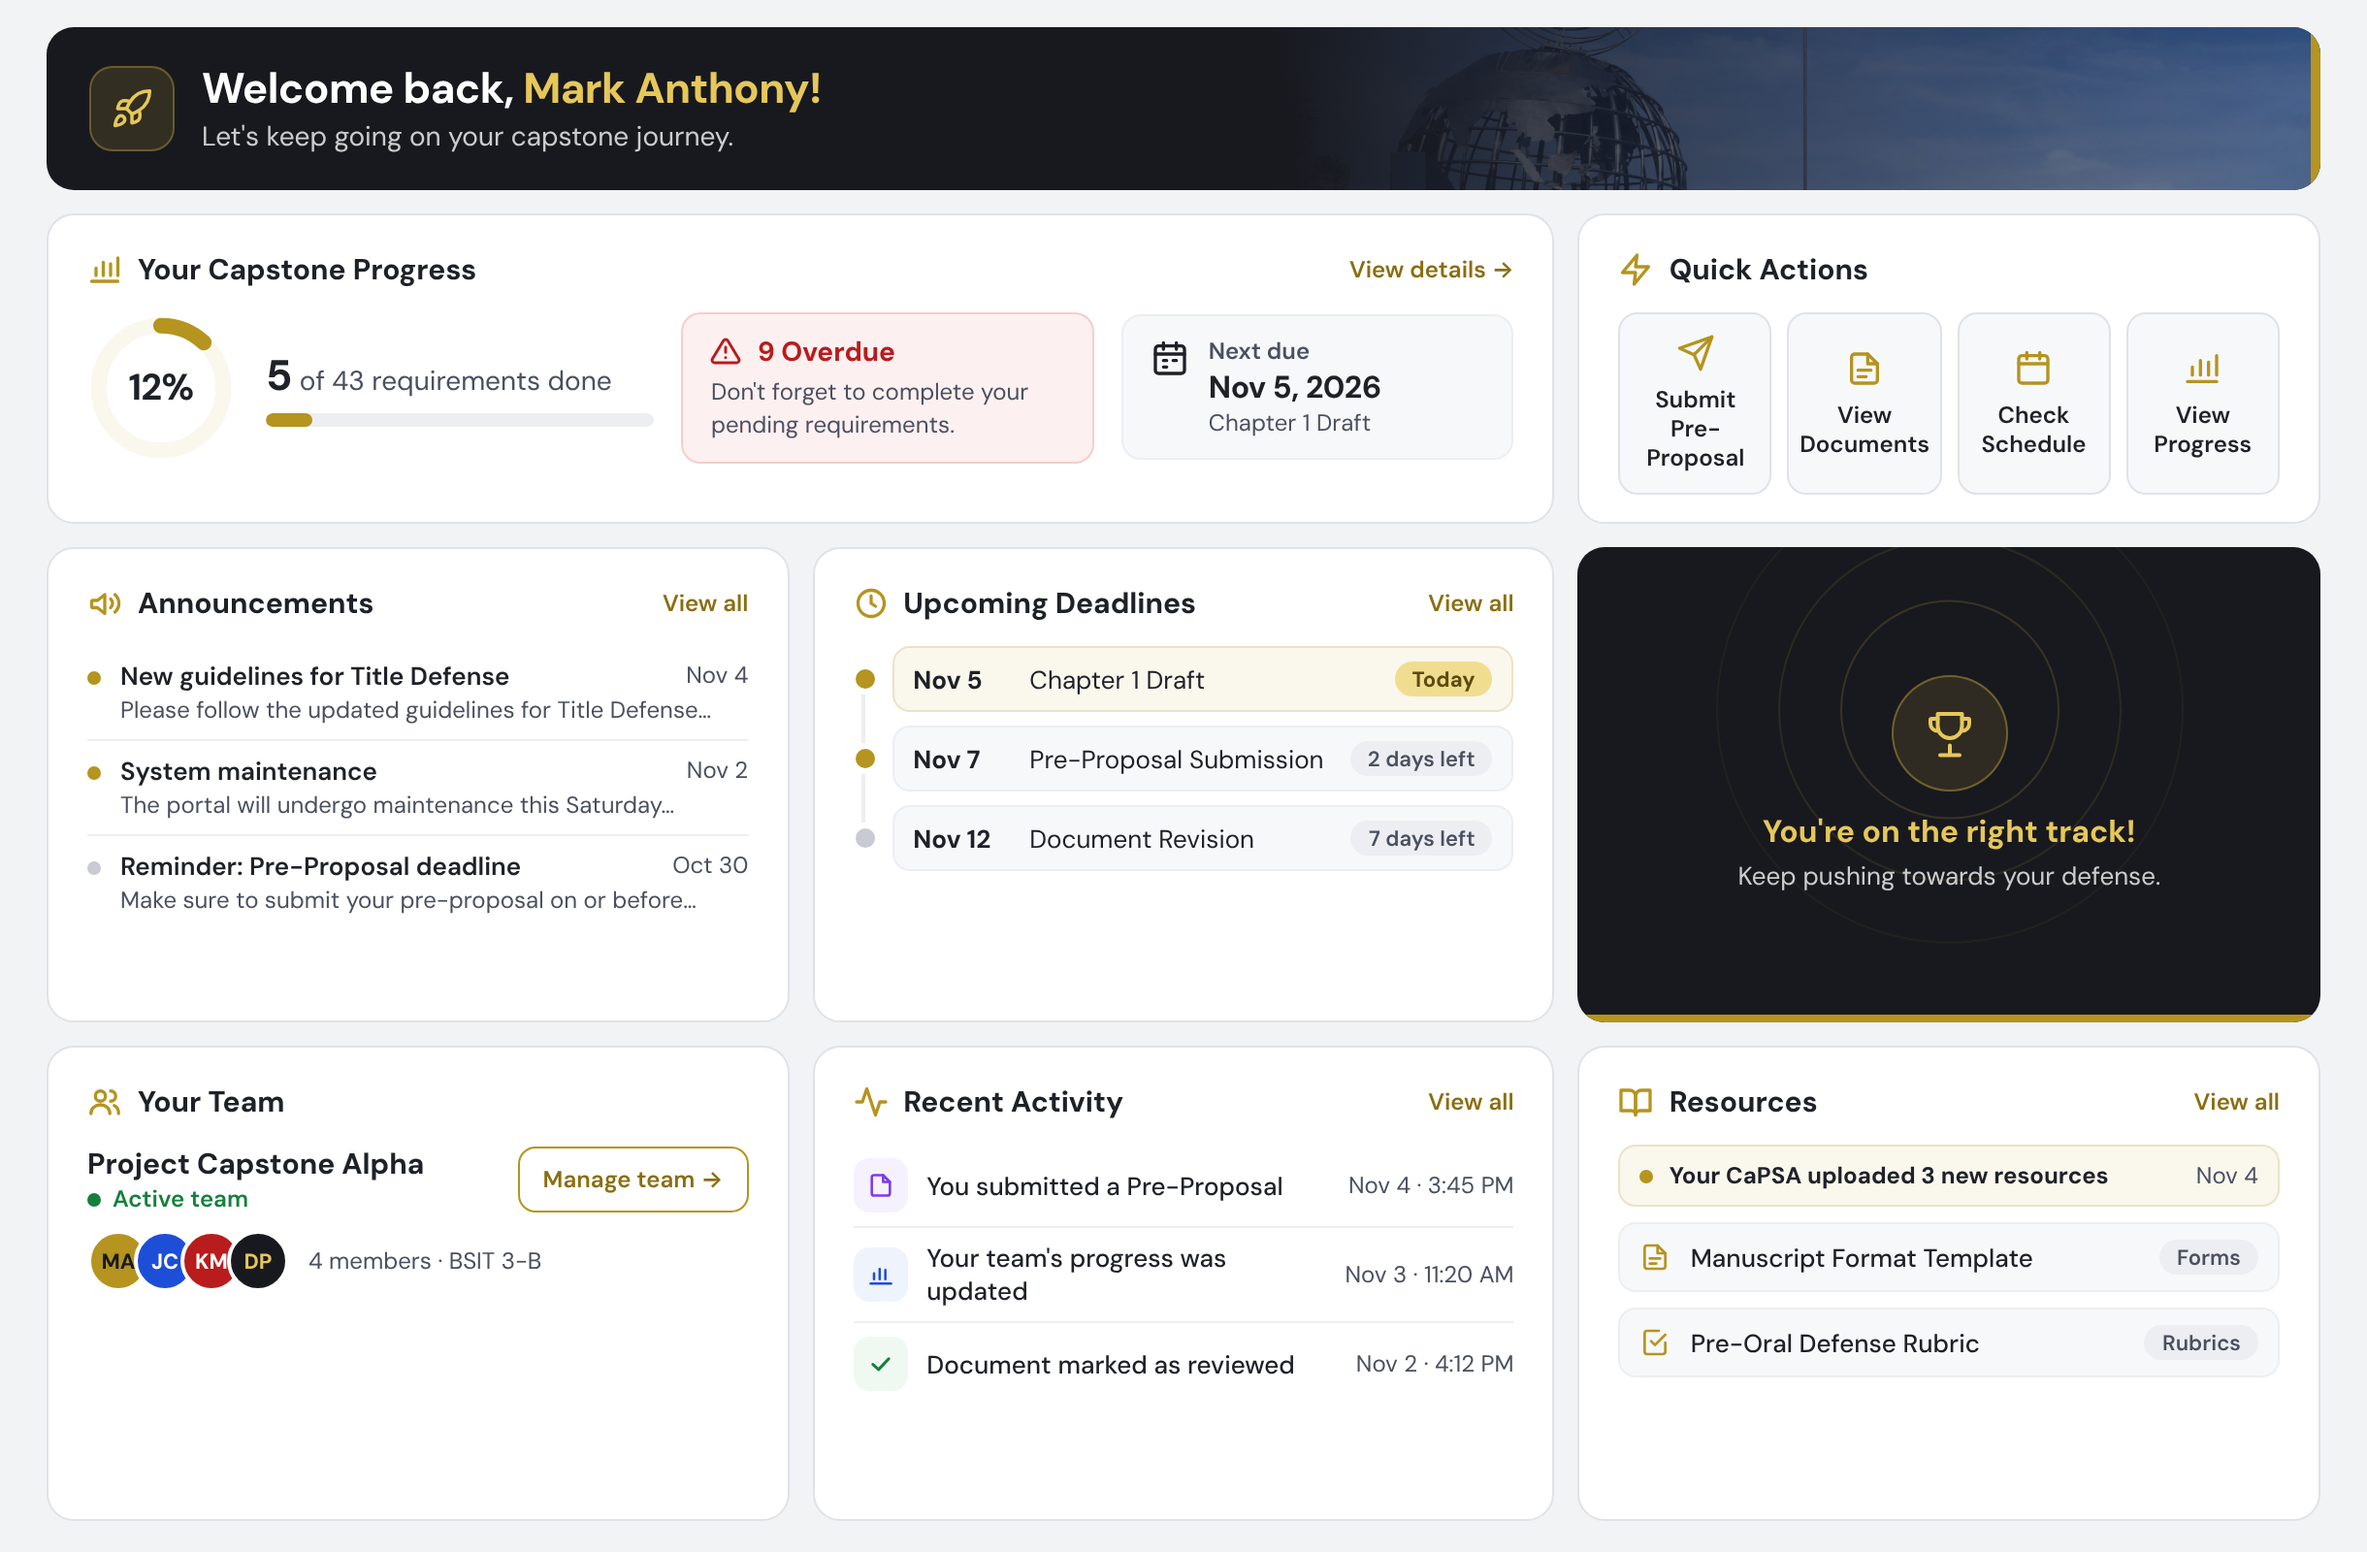
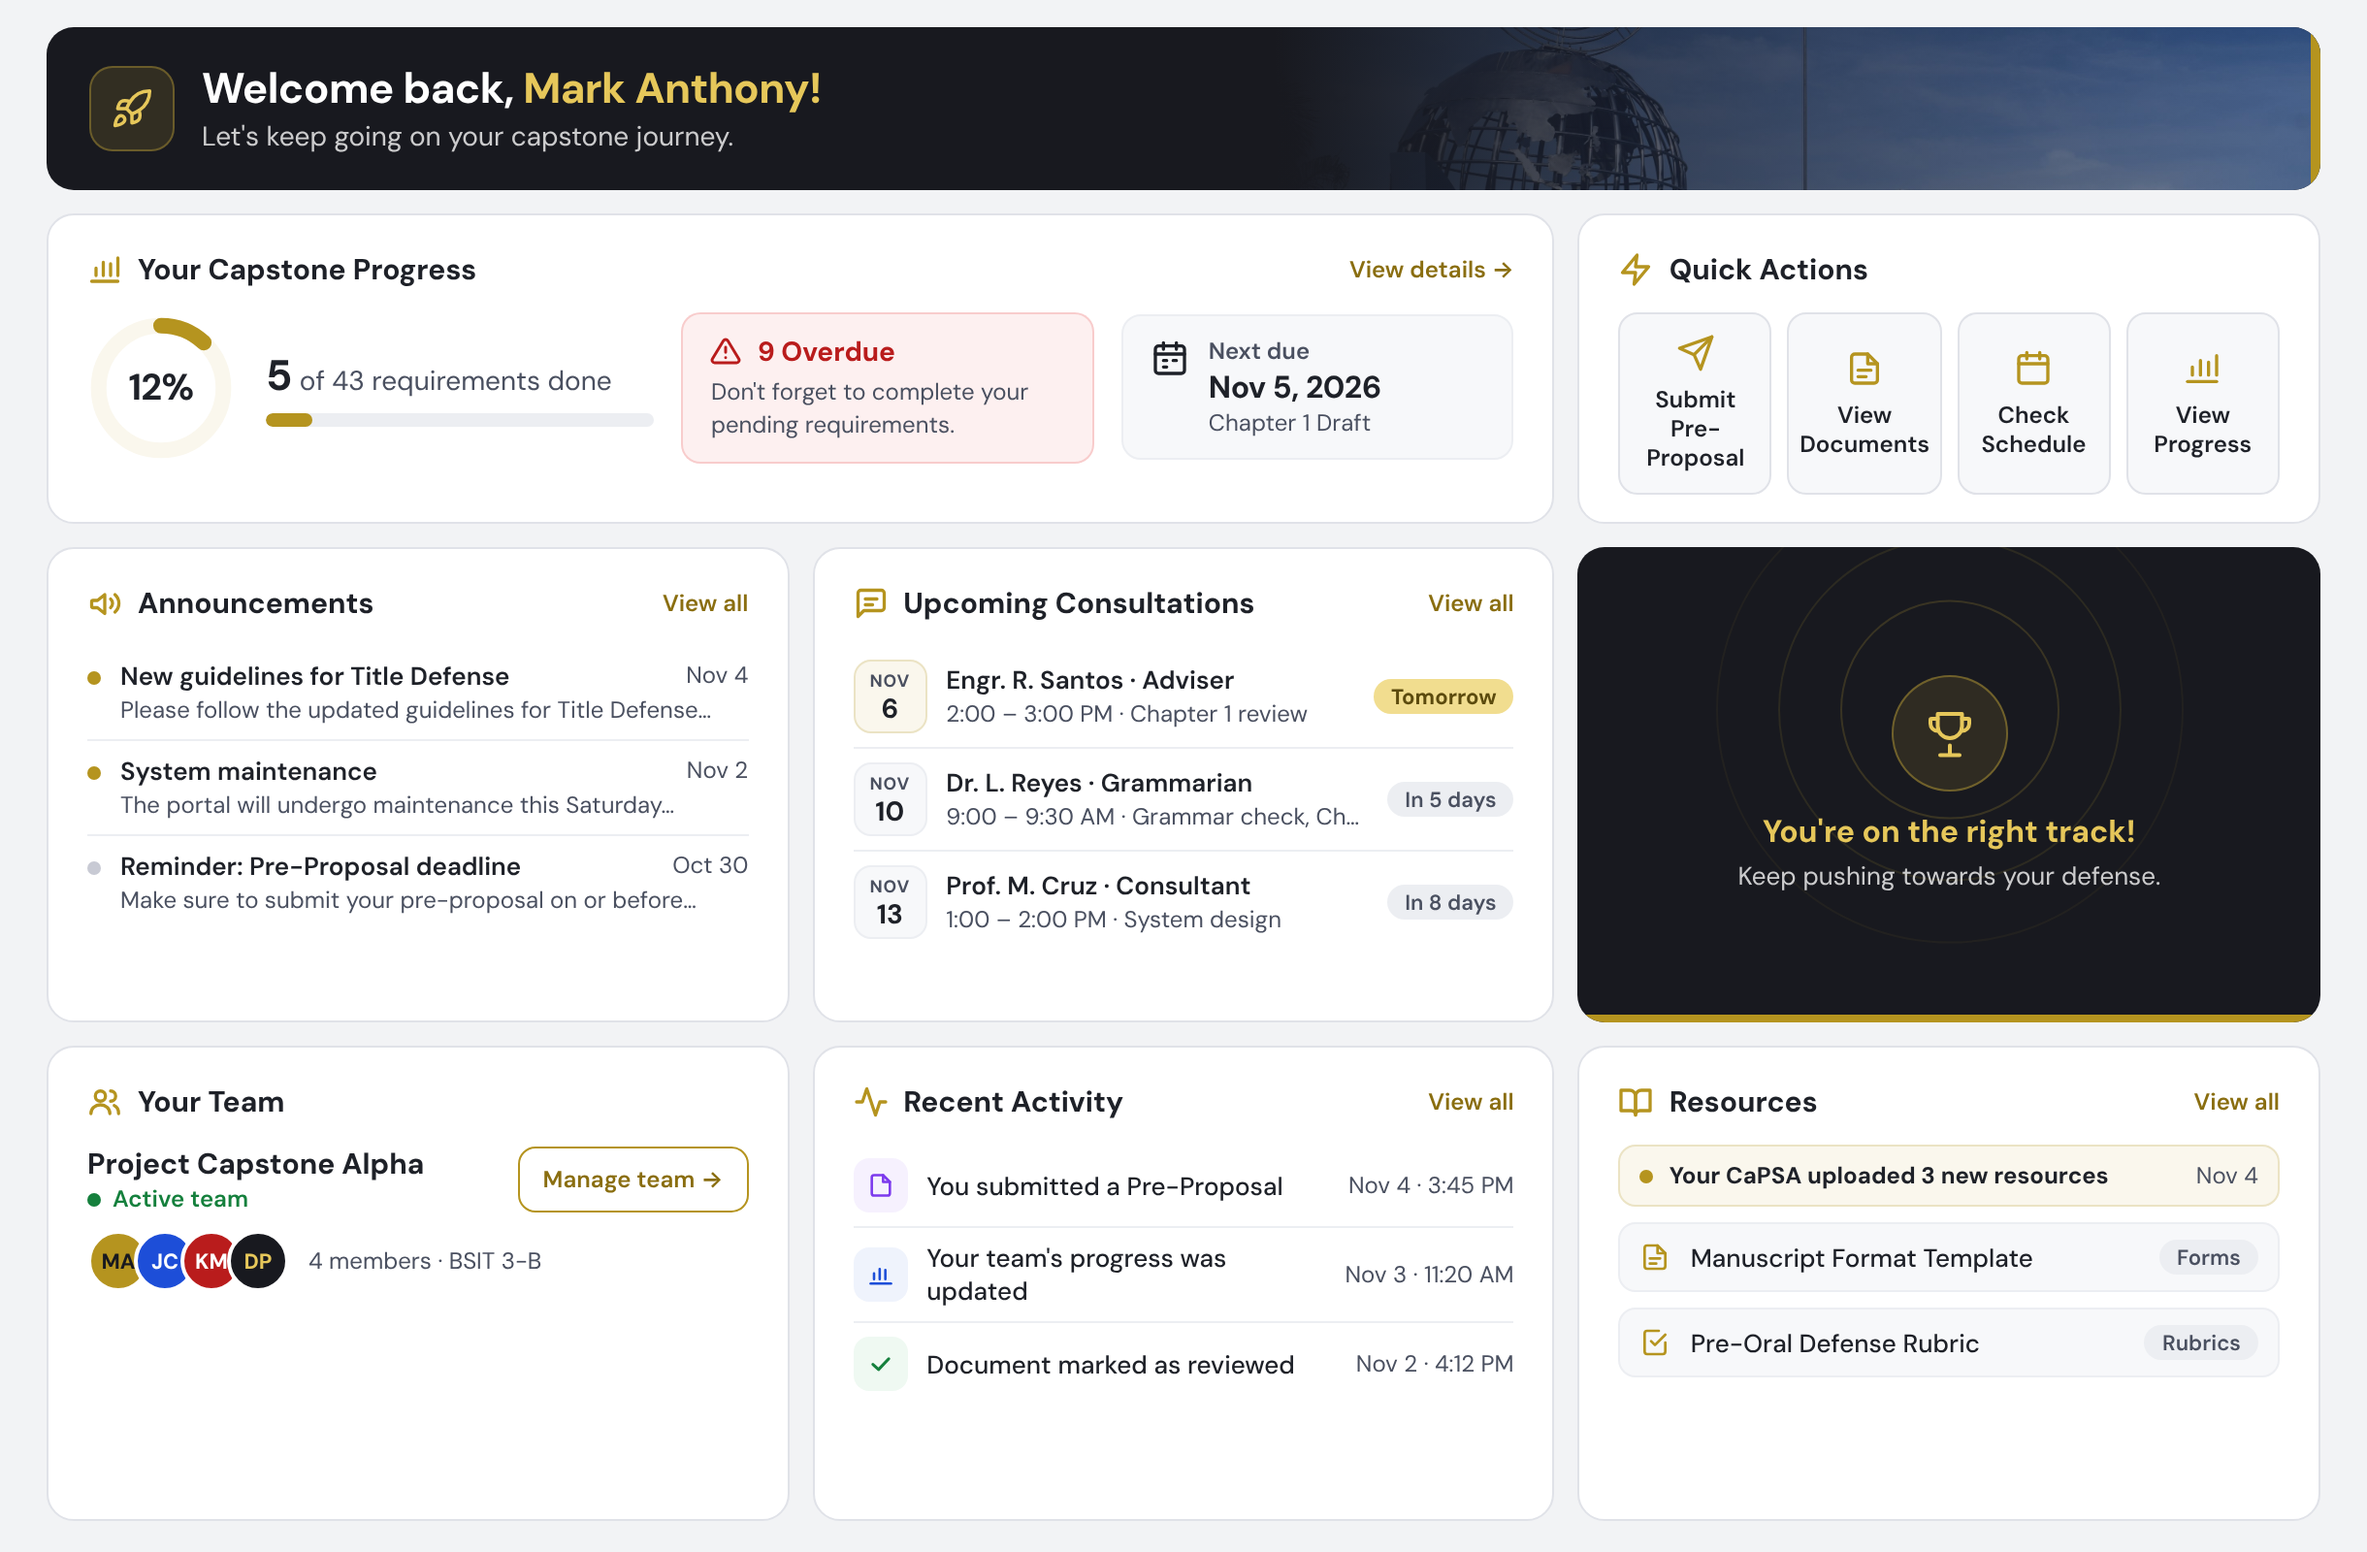
Dashboard redesign: Upcoming Consultations replaces Upcoming Deadlines
The progress card already shows what is overdue and due next, so the
deadline list repeated it. The team's next booked consultations take
its place.

Changed region(s): [[0.3426, 0.375, 0.6541, 0.5938], [0.3426, 0.375, 0.3738, 0.4062]]

diff --git a/.scratch/dashboard-redesign/dashboard-content.html b/.scratch/dashboard-redesign/dashboard-content.html
@@ -82,14 +82,11 @@ svg{display:block}
 .db-ann-top time{font-size:12px;font-weight:400;color:var(--text2);white-space:nowrap}
 .db-clip{white-space:nowrap;overflow:hidden;text-overflow:ellipsis}
 
-.db-timeline{position:relative;list-style:none;margin:0;padding:0 0 0 20px;display:flex;flex-direction:column;gap:7px}
-.db-timeline::before{content:"";position:absolute;left:4px;top:18px;bottom:18px;width:2px;background:var(--bg4)}
-.db-timeline li{position:relative;display:flex;align-items:center;gap:10px;padding:7px 10px;border-radius:9px;background:var(--bg3);border:1px solid var(--bg4);font-size:13px}
-.db-timeline li::before{content:"";position:absolute;left:-20px;width:10px;height:10px;border-radius:50%;background:var(--accent2);box-shadow:0 0 0 3px var(--bg2)}
-.db-timeline li.later::before{background:var(--border2)}
-.db-timeline li.is-today{background:var(--accent-light);border-color:#ebe3c4}
-.db-timeline time{width:50px;font-weight:700}
-.db-timeline .what{flex:1;min-width:0}
+.db-date{width:38px;height:38px;flex-shrink:0;border-radius:9px;background:var(--bg3);border:1px solid var(--bg4);display:flex;flex-direction:column;align-items:center;justify-content:center;font-size:14px;font-weight:700;line-height:1}
+.db-date small{font-size:9px;font-weight:700;text-transform:uppercase;letter-spacing:.4px;color:var(--text2);margin-bottom:2px}
+.db-date.soon{background:var(--accent-light);border-color:#ebe3c4}
+.db-cons{flex:1;min-width:0;display:flex;flex-direction:column;gap:1px}
+.db-cons b{font-size:13px;font-weight:600}
 
 /* ---------- on-track card ---------- */
 .db-track{position:relative;overflow:hidden;flex:1 1 250px;background:var(--navy-dark);border-radius:14px;padding:16px 20px;display:flex;flex-direction:column;align-items:center;justify-content:center;gap:10px;text-align:center;color:#fff}
@@ -231,16 +228,28 @@ svg{display:block}
     <section class="db-card">
       <div class="db-head">
         <h2 class="db-title">
-          <svg width="18" height="18" viewBox="0 0 24 24" fill="none" stroke="currentColor" stroke-width="2.2" stroke-linecap="round" stroke-linejoin="round" aria-hidden="true"><circle cx="12" cy="12" r="9"/><path d="M12 7v5l3 2"/></svg>
-          Upcoming Deadlines
+          <svg width="18" height="18" viewBox="0 0 24 24" fill="none" stroke="currentColor" stroke-width="2.2" stroke-linecap="round" stroke-linejoin="round" aria-hidden="true"><path d="M21 15a2 2 0 0 1-2 2H7l-4 4V5a2 2 0 0 1 2-2h14a2 2 0 0 1 2 2Z"/><path d="M8 9h8M8 13h5"/></svg>
+          Upcoming Consultations
         </h2>
         <a class="db-more" href="#">View all</a>
       </div>
-      <ol class="db-timeline">
-        <li class="is-today"><time>Nov 5</time><span class="what">Chapter 1 Draft</span><span class="db-pill today">Today</span></li>
-        <li><time>Nov 7</time><span class="what">Pre-Proposal Submission</span><span class="db-pill">2 days left</span></li>
-        <li class="later"><time>Nov 12</time><span class="what">Document Revision</span><span class="db-pill">7 days left</span></li>
-      </ol>
+      <ul class="db-list">
+        <li>
+          <span class="db-date soon"><small>Nov</small>6</span>
+          <div class="db-cons"><b>Engr. R. Santos · Adviser</b><span class="db-meta db-clip">2:00 – 3:00 PM · Chapter 1 review</span></div>
+          <span class="db-pill today">Tomorrow</span>
+        </li>
+        <li>
+          <span class="db-date"><small>Nov</small>10</span>
+          <div class="db-cons"><b>Dr. L. Reyes · Grammarian</b><span class="db-meta db-clip">9:00 – 9:30 AM · Grammar check, Chapters 1–2</span></div>
+          <span class="db-pill">In 5 days</span>
+        </li>
+        <li>
+          <span class="db-date"><small>Nov</small>13</span>
+          <div class="db-cons"><b>Prof. M. Cruz · Consultant</b><span class="db-meta db-clip">1:00 – 2:00 PM · System design</span></div>
+          <span class="db-pill">In 8 days</span>
+        </li>
+      </ul>
     </section>
 
     <section class="db-track">

diff --git a/.scratch/dashboard-redesign/handoff.md b/.scratch/dashboard-redesign/handoff.md
@@ -18,7 +18,7 @@ The sidebar (`student.partials.sidebar`) and the topbar (dark bar, page title, `
 ```
 ┌──────────────────────────── Welcome banner ────────────────────────────┐
 ├──────────── Capstone Progress (2 cols) ───────────┬── Quick Actions ───┤
-├─── Announcements ───┬─── Upcoming Deadlines ──────┼── On-track card ───┤
+├─── Announcements ───┬─── Upcoming Consultations ─┼── On-track card ───┤
 ├─── Your Team ───────┼─── Recent Activity ─────────┼── Resources ───────┤
 └─────────────────────┴─────────────────────────────┴────────────────────┘
 ```
@@ -39,7 +39,7 @@ All colours come from `resources/student-ui/styles.css`. Notes:
 
 ## Sections and their data
 
-Everything below except Upcoming Deadlines, Recent Activity and Resources already comes from `DashboardController::index`.
+Everything below except Upcoming Consultations, Recent Activity and Resources already comes from `DashboardController::index`.
 
 | # | Card | Shows | Source | Link |
 | --- | --- | --- | --- | --- |
@@ -47,7 +47,7 @@ Everything below except Upcoming Deadlines, Recent Activity and Resources alread
 | 2 | Capstone Progress | Ring and bar showing `$overallProgress`%; "{completed} of {total} requirements done"; a red **N Overdue** box (only when N > 0); **Next due** date and title | `$progress->completed`, `$progress->total`, `$overdueItems->count()`, `$nextItem->due_on`, `$nextItem->item->title` | View details → `student.progress` |
 | 3 | Quick Actions | 4 tiles | none | Submit → `student.submission`; View Documents → `student.documents`; Check Schedule → **open question 3**; View Progress → `student.progress` |
 | 4 | Announcements | The latest **3**, each with a title, a one-line excerpt (ellipsis) and a date. Gold dot = new, grey = older | `$announcements->take(3)` | View all → announcements list (**open question 4**) |
-| 5 | Upcoming Deadlines | The next **3** items not yet done that have a due date, each with a date, a title and a pill: **Today** (gold), "N days left" | **New:** `$progress->items`, without complete or overdue items, those with `due_on`, sorted by `due_on`, `take(3)`. This is the same filter as `$nextItem` without `->first()`. | View all → `student.progress` (the Progress Tracker lists every requirement with its due date; the app has no calendar outside Consultation) |
+| 5 | Upcoming Consultations | The team's next **3** booked consultations, each with a date tile (gold when it is today or tomorrow), "{expert name} · {Adviser / Consultant / Grammarian}", "{start} – {end} · {topics}", and a pill: **Today** / **Tomorrow** (gold), "In N days" | **New:** `ConsultationBooking::forTeam($teamId)->where('booking_status', 'scheduled')->whereDate('session_date', '>=', today())`, with `schedule.expert`, sorted by `session_date` then `schedule.start_time`, `take(3)`. Topics from `topicsLabel()`. The role comes from the team's expert assignment for that expert (`$myTeam->expertAssignments`). | View all → `student.consultation` |
 | 6 | On-track card | A trophy icon and a message | `$overdueItems` (see open question 1) | none |
 | 7 | Your Team | Team name, "Active team", up to 4 initials avatars, "{n} members · {section}"; **Manage team** button | `$myTeam`, `$teamMembers` | Manage team → `student.team` |
 | 8 | Recent Activity | The latest **3**, each with a coloured icon by type, text and "Nov 4 · 3:45 PM" | **New:** `Notification::where('student_id', …)->latest('created_at')->take(3)`, read ones included (the controller loads only unread now) | View all → notifications |
@@ -56,10 +56,15 @@ Everything below except Upcoming Deadlines, Recent Activity and Resources alread
 ### Empty states
 
 - **No team:** keep today's `NextStep` card (`App\Support\NextStep`) in place of rows 2–4, or above them. It already explains the next setup step.
-- **No checklist yet** (`$progress === null`): Capstone Progress shows the existing sentence "Your section's checklist is not set up yet…", and Upcoming Deadlines shows "No deadlines yet."
+- **No checklist yet** (`$progress === null`): Capstone Progress shows the existing sentence "Your section's checklist is not set up yet…", and the Overdue and Next due boxes are hidden.
 - **No overdue items:** hide the red box. The Next due box takes its place.
 - **Nothing in a list:** show one muted line inside the card, such as "No announcements yet." Keep the card height.
+- **No consultation booked:** "No consultation booked yet." and a gold outline button **Book a consultation** → `student.consultation`.
 - **No new resources:** hide the gold notice and show the 2 newest resources anyway.
+
+## Decided
+
+- **Upcoming Deadlines was dropped.** The Capstone Progress card already shows the overdue count and what is due next, and the app has no calendar outside Consultation. Upcoming Consultations took its place.
 
 ## Open questions
 
@@ -73,7 +78,7 @@ Everything below except Upcoming Deadlines, Recent Activity and Resources alread
 
 `tests/Feature/StudentDashboardTest.php` covers today's dashboard. Update it for the new sections, at least:
 
-- Upcoming Deadlines lists at most 3 open items with due dates, in date order, and leaves out completed and overdue items.
+- Upcoming Consultations lists at most 3 of the team's own `scheduled` bookings from today on, in date and time order, and leaves out cancelled, done and past bookings and other teams' bookings.
 - Recent Activity shows the student's own notifications only, read and unread.
 - The Resources notice counts only resources uploaded in the last week, and only those the student's program and section can see.
 - The Overdue box and the on-track message follow `$overdueItems`.
